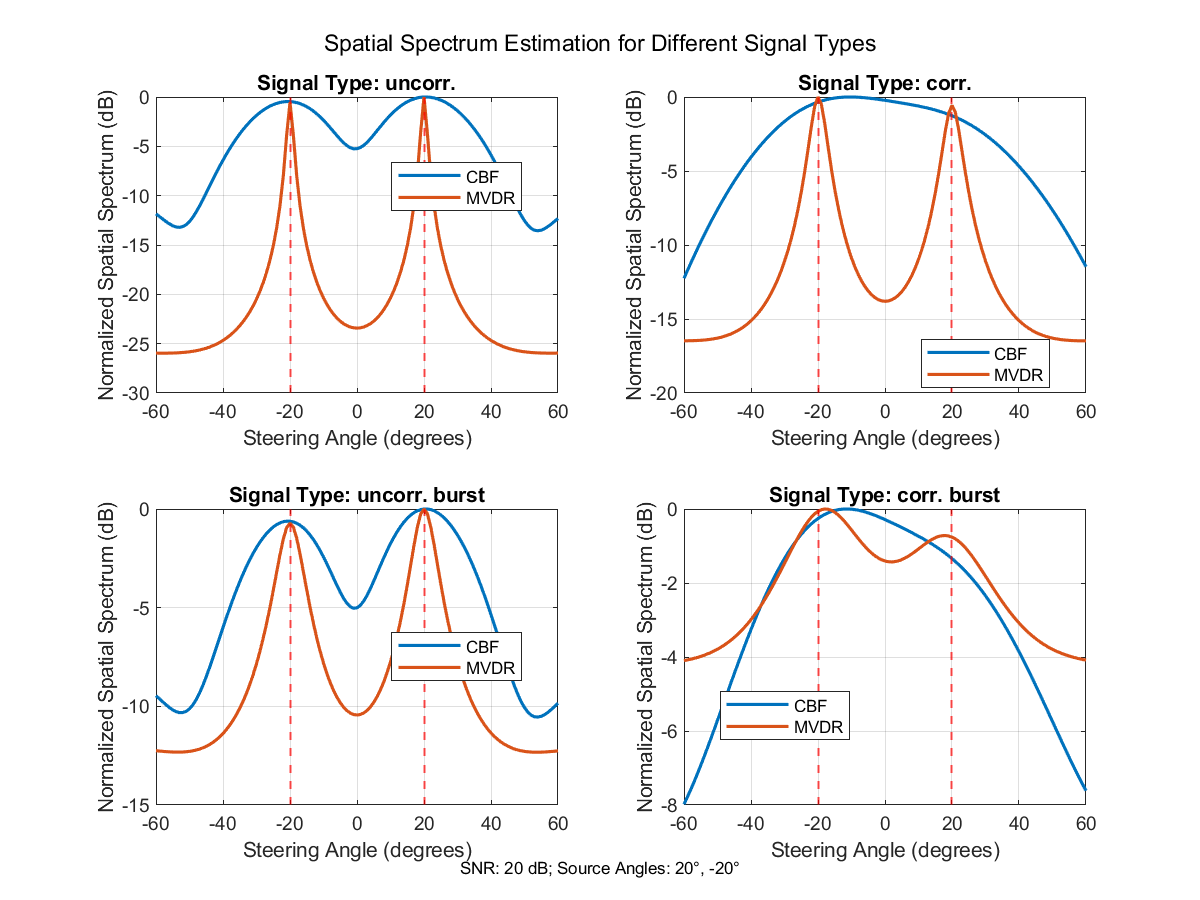
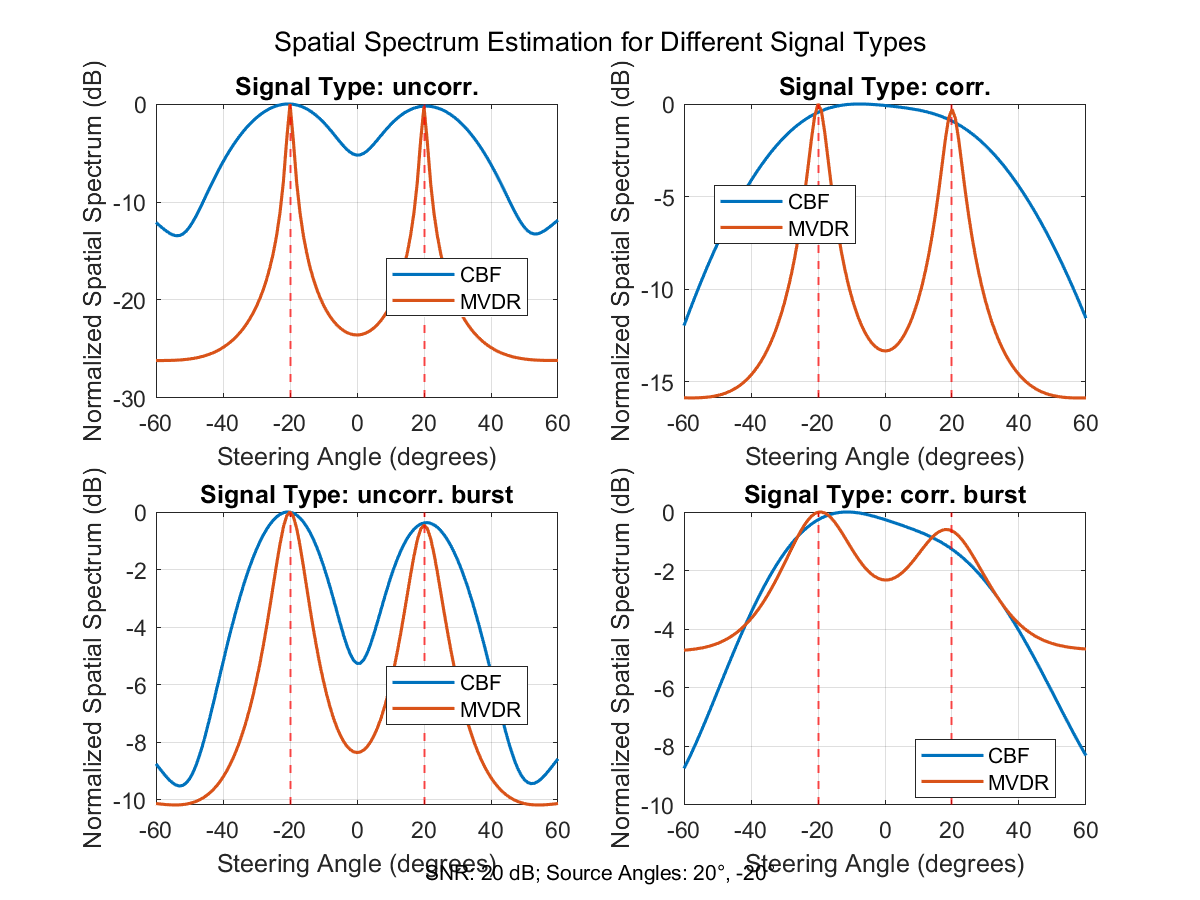
update fig

diff --git a/dsp/scripts/cbf_mvdr_sim.m b/dsp/scripts/cbf_mvdr_sim.m
@@ -5,7 +5,7 @@ if ~exist(save_path, 'dir')
 end
 
 % Font size and figure dimensions
-FontSize = 9;        % Font size (adjusted down by 2 pt)
+FontSize = 11;        % Font size
 FigureWidth = 8;     % Width in inches (adjusted to prevent cropping)
 FigureHeight = 6;    % Height in inches (adjusted to prevent cropping)
 
@@ -89,7 +89,7 @@ sgtitle('Spatial Spectrum Estimation for Different SNRs', 'FontSize', FontSize +
 %tightfig;
 
 % Add a note to the figure below the subplots
-annotation('textbox', [0, 0.005, 1, 0.05], ...
+annotation('textbox', [0, 0.002, 1, 0.05], ...
     'String', 'Signal Types: Uncorrelated Signals; Source Angles: 20°, -20°', ...
     'EdgeColor', 'none', 'HorizontalAlignment', 'center', 'FontSize', FontSize - 1);
 
@@ -163,7 +163,7 @@ sgtitle('Spatial Spectrum Estimation for Different Source Spacings', 'FontSize',
 %tightfig;
 
 % Add a note to the figure below the subplots
-annotation('textbox', [0, 0.005, 1, 0.05], ...
+annotation('textbox', [0, 0.002, 1, 0.05], ...
     'String', 'SNR: 20 dB; Signal Type: Uncorrelated Signals', ...
     'EdgeColor', 'none', 'HorizontalAlignment', 'center', 'FontSize', FontSize - 1);
 
@@ -259,7 +259,7 @@ sgtitle('Spatial Spectrum Estimation for Different Signal Types', 'FontSize', Fo
 %tightfig;
 
 % Add a note to the figure below the subplots
-annotation('textbox', [0, 0.005, 1, 0.05], ...
+annotation('textbox', [0, 0.002, 1, 0.05], ...
     'String', 'SNR: 20 dB; Source Angles: 20°, -20°', ...
     'EdgeColor', 'none', 'HorizontalAlignment', 'center', 'FontSize', FontSize - 1);
 
